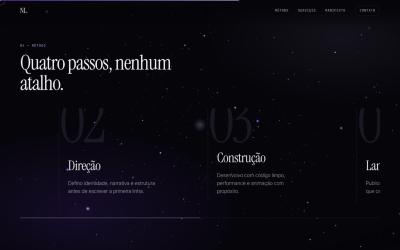
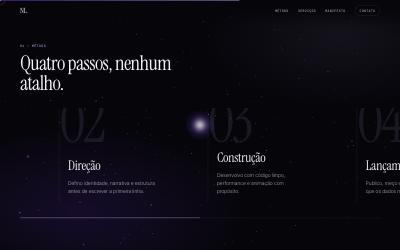
docs: verificação e README do Lumen

diff --git a/README.md b/README.md
@@ -1,152 +1,43 @@
-# Portfólio - Nayara Louback
+# Lumen — Portfólio de Nayara Louback
 
-Portfólio profissional responsivo desenvolvido com foco em design moderno, experiência do usuário e boas práticas de desenvolvimento web.
+Portfólio de **Desenvolvimento & Análise de Dados**. A história é contada pelo scroll: o site começa no escuro e a luz acende conforme você desce.
 
-## 📋 Sobre
+## Capítulos
+1. **Vazio** — uma partícula acende, o título se revela por linha.
+2. **Ruído** — painéis genéricos recuam em profundidade (o problema).
+3. **Faísca** — a luz explode e a câmera avança pelo túnel de partículas.
+4. **Método** — scroll horizontal pinado: Descoberta, Direção, Construção, Lançamento.
+5. **Serviços** — cartões de vidro em camadas, com parallax por profundidade.
+6. **Manifesto** — texto que acende palavra por palavra.
+7. **Contato** — o orbe de luz vira o convite final.
 
-Página web pessoal que apresenta informações profissionais, projetos desenvolvidos e formas de contato. Design limpo e minimalista com paleta de cores escura e detalhes em roxo.
+## Stack
+HTML, CSS e JavaScript sem build. GSAP 3.12.5 + ScrollTrigger, Lenis 1.1.13 e Three.js 0.160.0 por CDN. Todos os visuais são procedurais (shaders, SVG, CSS).
 
----
-
-## 🛠 Tecnologias Utilizadas
-
-### Frontend
-
-- **HTML5** - Estrutura semântica e acessível
-- **CSS3** - Estilos avançados com variáveis CSS, gradientes e animations
-- **JavaScript (Vanilla)** - Interatividade e funcionalidades dinâmicas
-
-### Design & UX
-
-- **Design Responsivo** - Mobile-first, suporta todos os tamanhos de tela
-- **Backdrop Filter** - Efeitos visuais modernos
-- **CSS Grid & Flexbox** - Layouts flexíveis e organizados
-- **Custom Properties (CSS Variables)** - Tema consistente e fácil de manter
-
-### Performance & Acessibilidade
-
-- **Smooth Scroll** - Navegação suave entre seções
-- **Fade-in Animations** - Efeitos de entrada elegantes
-- **SEO Friendly** - Estrutura semântica apropriada
-- **WCAG Compliance** - Respeita padrões de acessibilidade
-
----
-
-## 📁 Estrutura do Projeto
-
+## Rodar localmente
+```bash
+python3 tools/serve.py   # http://localhost:4173
 ```
-portifolio/
-├── index.html          # Página principal (HTML semântico)
-├── style.css           # Estilos globais e componentes
-├── script.js           # Scripts interativos
-├── img/
-│   └── nayara.png      # Foto de perfil
-└── README.md           # Documentação do projeto
+Os módulos ES exigem servidor HTTP; abrir o `index.html` direto do disco não funciona.
+
+## Estrutura
+```
+index.html          conteúdo e semântica
+css/main.css        tokens, layout e estilos por capítulo
+js/main.js          inicialização
+js/scroll.js        Lenis, progresso, parallax, cursor
+js/text.js          reveals de linha e de palavra
+js/scene.js         cena WebGL de partículas
+js/chapters.js      animações por capítulo
+tools/              servidor local e checagens de layout
+docs/               spec, plano e screenshots de verificação
 ```
 
----
+## Acessibilidade e robustez
+- `prefers-reduced-motion`: sem scroll suave, parallax ou pins; cena estática; conteúdo todo visível.
+- Sem WebGL: fallback em gradiente CSS.
+- Fonte web bloqueada: o texto cai para serifa do sistema e continua legível.
+- Sem overflow horizontal de 320 a 1440 px; contraste AA nos textos.
 
-## 🎨 Seções Principais
-
-### 1. **Navegação**
-
-- Menu fixo com links de âncora para seções principais
-- Logo personalizado
-- Efeitos hover smooth
-
-### 2. **Hero Section**
-
-- Apresentação profissional
-- Avatar circular com foto de perfil
-- Call-to-action buttons
-- Tags de especialização
-
-### 3. **Sobre Mim**
-
-- Descrição profissional
-- Tecnologias principais
-- Skills com barras de progresso visual
-
-### 4. **Projetos**
-
-- Grid de projetos com cards interativos
-- Links para demo live e repositório GitHub
-- Descrições detalhadas e tags de tecnologias
-
-### 5. **Contato**
-
-- Links para redes sociais
-- E-mail profissional
-- Integração com LinkedIn e GitHub
-
----
-
-## 🎯 Funcionalidades
-
-✅ **Design Responsivo** - Funciona perfeitamente em mobile, tablet e desktop  
-✅ **Smooth Scrolling** - Navegação fluida entre seções  
-✅ **Animations** - Efeitos fade-in e hover elegantes  
-✅ **Dark Theme** - Paleta de cores profissional e moderna  
-✅ **Links em Nova Aba** - Todos os links externos abrem em nova janela  
-✅ **Acessível** - Semântica HTML apropriada e boas práticas de UX
-
----
-
-## 🚀 Como Usar
-
-1. **Clone ou baixe o projeto**
-
-   ```bash
-   git clone https://github.com/NayaraLF/portifolio.git
-   ```
-
-2. **Abra em um navegador**
-   - Abra o arquivo `index.html` diretamente no navegador, ou
-   - Use um servidor local para melhor experiência
-
-3. **Com Live Server (VS Code)**
-   - Instale a extensão Live Server
-   - Clique com botão direito em `index.html` → Open with Live Server
-
----
-
-## 📱 Responsividade
-
-O projeto foi desenvolvido com abordagem **Mobile-First** e é totalmente responsivo:
-
-- **Mobile** (< 768px) - Layout otimizado para telas pequenas
-- **Tablet** (768px - 1024px) - Ajustes intermediários
-- **Desktop** (> 1024px) - Experiência completa
-
----
-
-## 🎨 Paleta de Cores
-
-```css
---bg: #0f0f13 /* Fundo principal */ --surface: #1a1a24
-  /* Superfícies secundárias */ --surface2: #22222f /* Superfícies terciárias */
-  --accent: #7c6af7 /* Cor primária (roxo) */ --accent2: #a78bfa
-  /* Cor secundária (roxo claro) */ --text: #e8e8f0 /* Texto principal */
-  --muted: #8888a8 /* Texto secundário */ --border: #2e2e42 /* Bordas */;
-```
-
----
-
-## 📞 Contato
-
-- **Email**: nayara993@gmail.com
-- **LinkedIn**: [linkedin.com/in/nayaralf](https://www.linkedin.com/in/nayaralf/)
-- **GitHub**: [github.com/NayaraLF](https://github.com/NayaraLF)
-
----
-
-## 📄 Licença
-
-Este projeto é de uso pessoal. Sinta-se livre para usar como inspiração para seu próprio portfólio.
-
----
-
-## 👨💻 Desenvolvido por
-
-**Nayara Louback** - Desenvolvedora Full Stack  
-2026
+## Verificação
+Screenshots em `docs/verification/` (1440, 1024, 768 e 390 px). Para checar overflow, cole `tools/check-layout.js` no console e rode `__checkLayout()`.
